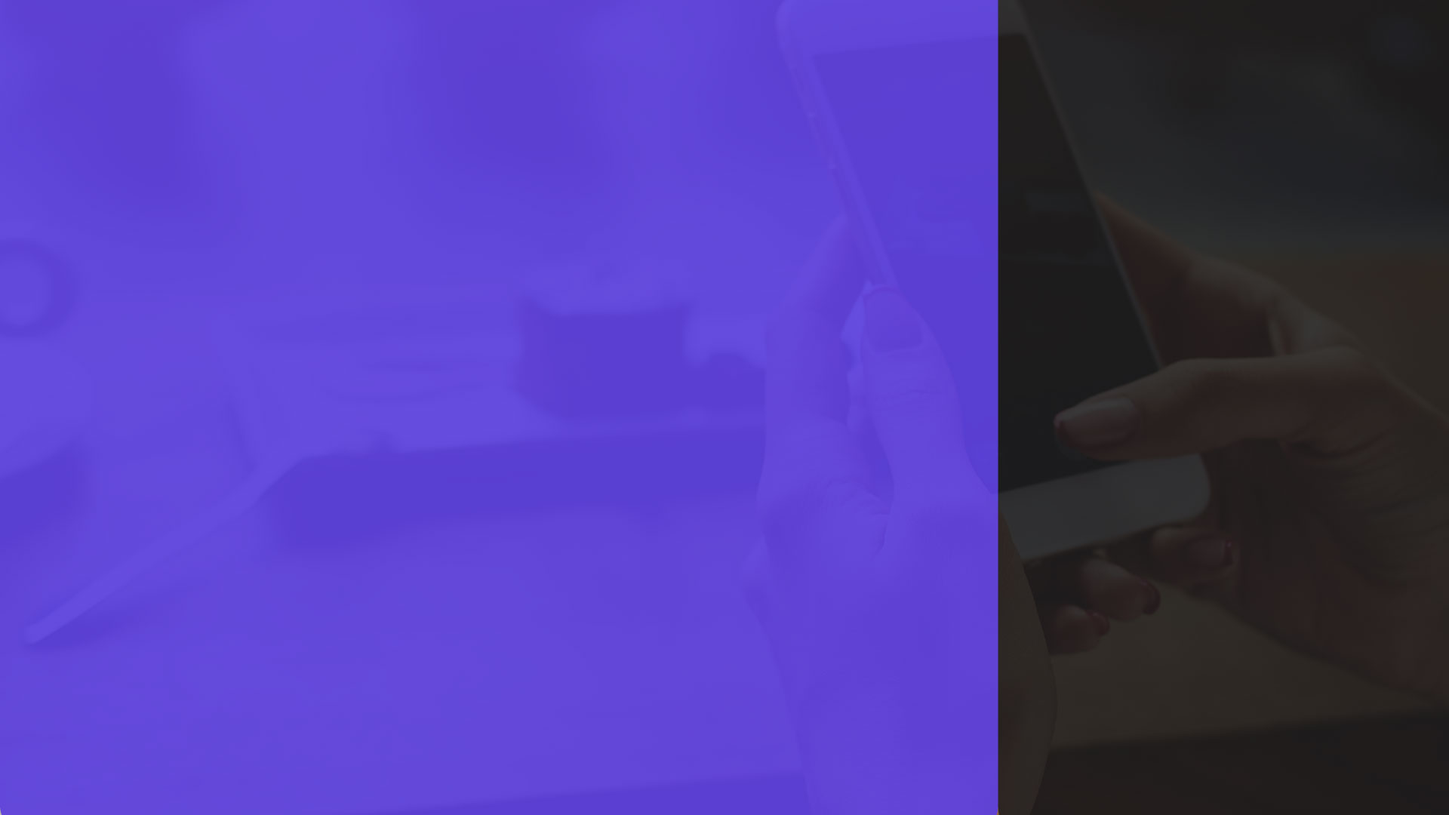
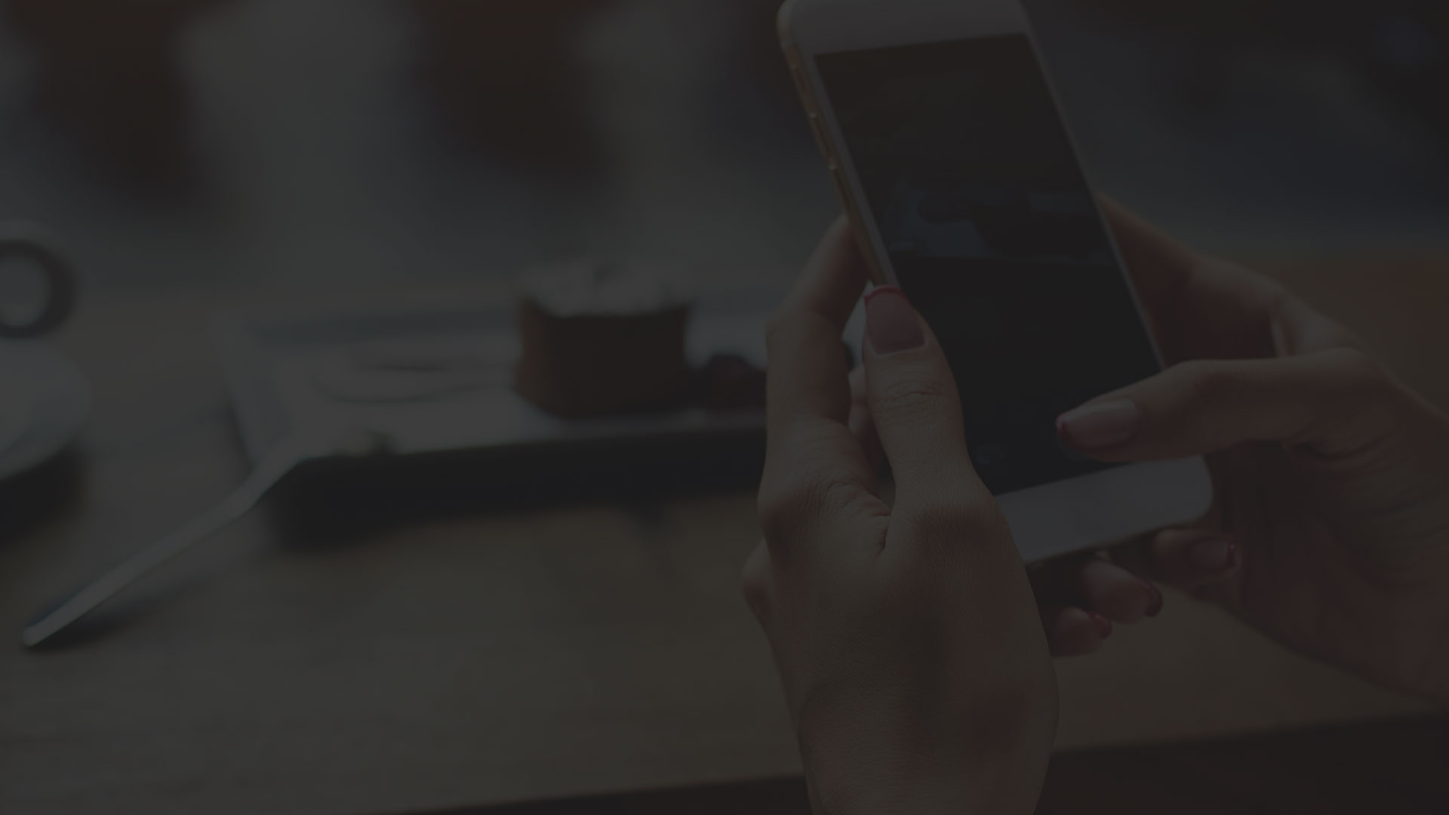
ajustes tomas

diff --git a/assets/css/main.min.css b/assets/css/main.min.css
@@ -1,2 +1,2 @@
-@import url("https://fonts.googleapis.com/css2?family=Montserrat:wght@400;600;700&family=Nunito:wght@300;400;500;600;700;800;900&display=swap");html,body,div,span,applet,object,iframe,h1,h2,h3,h4,h5,h6,p,blockquote,pre,a,abbr,acronym,address,big,cite,code,del,dfn,em,img,ins,kbd,q,s,samp,small,strike,strong,sub,sup,tt,var,b,u,i,center,dl,dt,dd,ol,ul,li,fieldset,form,label,legend,table,caption,tbody,tfoot,thead,tr,th,td,article,aside,canvas,details,embed,figure,figcaption,footer,header,hgroup,menu,nav,output,ruby,section,summary,time,mark,audio,video{margin:0;padding:0;border:0;font-size:100%;font:inherit;vertical-align:baseline}.jumbotron{padding:0}article,aside,details,figcaption,figure,footer,header,hgroup,menu,nav,section{display:block}body{line-height:1}ol,ul{list-style:none}blockquote,q{quotes:none}blockquote:before,blockquote:after{content:'';content:none}q:before,q:after{content:'';content:none}table{border-collapse:collapse;border-spacing:0}button.focus,button:focus,.btn.focus,.btn:focus{outline:0;-webkit-box-shadow:none;box-shadow:none}.form-control{border-radius:0}.form-control:focus{-webkit-box-shadow:none;box-shadow:none}textarea{resize:none}.modal .modal-content{border-radius:0;border:0}a{color:inherit}a:hover{text-decoration:none}html{scroll-behavior:smooth}@media (max-width: 575.98px){html{font-size:14px}}body{background-color:#5d41dd}.check{opacity:0}h2{font-family:"Nunito",sans-serif;font-weight:300;font-size:42px;font-size:2.625rem;color:white;line-height:48px;line-height:3rem}h3{font-family:"Nunito",sans-serif;font-weight:900;font-size:30px;font-size:1.875rem}h4{font-family:"Nunito",sans-serif;font-weight:600;font-size:25px;font-size:1.5625rem;line-height:30px;line-height:1.875rem}h5{font-family:"Nunito",sans-serif;font-weight:700;font-size:18px;font-size:1.125rem;line-height:22px;line-height:1.375rem}b{font-weight:700}@media (min-width: 1400px){.container{min-width:1400px}}.btn-round{background-color:#5d41dd;color:white;font-size:25px;font-size:1.5625rem;display:inline-block;font-family:"Nunito",sans-serif;font-weight:700;padding:15px 30px;padding:.9375rem 1.875rem;border-radius:50px;text-align:center;position:relative;overflow:hidden}.btn-round span{position:relative;z-index:1}.btn-round::after{content:'';background-color:#23D3DE;position:absolute;left:0;right:0;bottom:0;top:0;height:0;-webkit-transition:height .2s linear;transition:height .2s linear}.btn-round:hover{color:white}.btn-round:hover::after{height:100%}.combo{display:-webkit-box;display:-ms-flexbox;display:flex;-webkit-box-align:center;-ms-flex-align:center;align-items:center;margin-bottom:5px;margin-bottom:.3125rem}.combo img{margin-right:10px;margin-right:.625rem}.navbar{background-color:rgba(0,0,0,0.5);border-bottom:1px solid white;padding-top:30px;padding-top:1.875rem;padding-bottom:30px;padding-bottom:1.875rem;-webkit-transition:all .2s linear;transition:all .2s linear}@media (max-width: 991.98px){.navbar{padding-left:0;padding-right:0;background-color:transparent;border-bottom:0}.navbar.opened{background-color:rgba(93,65,221,0.95)}.navbar .container{max-width:100%}}@media (max-width: 767.98px){.navbar{background-color:transparent;border-bottom:0;padding-top:20px;padding-top:1.25rem;padding-bottom:20px;padding-bottom:1.25rem}}.navbar.scrolled{background-color:rgba(0,0,0,0.9);padding-top:20px;padding-top:1.25rem;padding-bottom:20px;padding-bottom:1.25rem}@media (max-width: 991.98px){.navbar.scrolled{background-color:rgba(93,65,221,0.95);padding-top:15px;padding-top:.9375rem;padding-bottom:15px;padding-bottom:.9375rem}}.navbar .navbar-brand{display:-webkit-box;display:-ms-flexbox;display:flex;-webkit-box-align:center;-ms-flex-align:center;align-items:center}.navbar .navbar-brand img{width:150px;margin-right:30px}@media (max-width: 767.98px){.navbar .navbar-brand img{width:120px}}.navbar .navbar-brand p{font-family:"Nunito",sans-serif;color:white;font-size:12px;font-size:.75rem;font-style:italic;font-weight:500}@media (max-width: 991.98px){.navbar .navbar-brand{padding-left:30px;padding-left:1.875rem}}.navbar .navbar-toggler{padding-right:30px;padding-right:1.875rem}.navbar .nav-item{margin:0px 7px;margin:0rem .4375rem}@media (max-width: 1400px){.navbar .nav-item{margin:15px 0px;margin:.9375rem 0rem}}.navbar .nav-item.active .nav-link{color:#23D3DE;font-weight:700}.navbar .nav-item.nav-item__contacto{border-radius:50px;background-color:#23D3DE;padding:2px 10px;padding:.125rem .625rem;position:relative;overflow:hidden}@media (max-width: 991.98px){.navbar .nav-item.nav-item__contacto{margin-top:auto;margin-bottom:12vh}}.navbar .nav-item.nav-item__contacto::after{content:'';background-color:white;position:absolute;left:0;right:0;bottom:0;top:0;height:0;-webkit-transition:height .2s linear;transition:height .2s linear}.navbar .nav-item.nav-item__contacto:hover{color:white}.navbar .nav-item.nav-item__contacto:hover::after{height:100%}.navbar .nav-item.nav-item__contacto .nav-link{color:black;font-weight:700;position:relative;z-index:2}@media (max-width: 991.98px){.navbar .nav-item.nav-item__contacto .nav-link{text-align:center;color:#5d41dd;padding-top:20px;padding-top:1.25rem;padding-bottom:20px;padding-bottom:1.25rem}}.navbar .nav-item.flags{margin-left:20px;margin-left:1.25rem}.navbar .nav-item.flags img{margin-right:10px}@media (max-width: 1400px){.navbar .nav-item.flags img{margin-right:5px}}.navbar .nav-item.flags img:last-child{margin:0}.navbar .nav-link{font-family:"Montserrat",sans-serif;color:white;font-size:14px;font-size:.875rem}.navbar .nav-link:hover{color:#23D3DE}@media (max-width: 991.98px){.navbar .nav-link{font-size:20px;font-size:1.25rem}}@media (max-width: 991.98px){.navbar .navbar-nav{padding:112px 50px 0px 50px;padding:7rem 3.125rem 0rem 3.125rem;height:95vh;-webkit-box-pack:center;-ms-flex-pack:center;justify-content:center}}header{height:100vh;background-color:black;display:-webkit-box;display:-ms-flexbox;display:flex;-webkit-box-align:center;-ms-flex-align:center;align-items:center;-webkit-box-pack:center;-ms-flex-pack:center;justify-content:center}header h1{font-family:"Nunito",sans-serif;font-weight:900;font-size:45px;font-size:2.8125rem;color:white}@media (max-width: 767.98px){header h1{margin-top:45px;margin-top:2.8125rem;font-size:35px;font-size:2.1875rem;font-weight:800}header h1 br{display:none}}header p{margin-top:25px;margin-top:1.5625rem;font-size:21px;font-size:1.3125rem;color:white;font-family:"Nunito",sans-serif;font-weight:700;margin-bottom:60px;margin-bottom:3.75rem}@media (max-width: 767.98px){header p{font-weight:600;margin-top:45px;margin-top:2.8125rem;margin-bottom:80px;margin-bottom:5rem}}header .container{position:relative;z-index:2}.wsp{z-index:20;position:fixed;right:50px;bottom:20px}@media (max-width: 767.98px){.wsp{display:none}}.flex-slider{width:100%;position:absolute}.flex-slider .slides{list-style:none;overflow:hidden;margin:0;padding:0}.flex-slider .slides>li{float:left;margin-right:-100%;width:100%;overflow:hidden;height:100vh}.flex-slider .flex-direction-nav{display:none}.flex-slider .slide-image{background-size:cover;background-position:center;position:absolute;width:100%;height:100%;left:0;top:0}.flex-slider .flex-active-slide .slide-image{-webkit-animation:zoomout 5s;animation:zoomout 5s}@-webkit-keyframes zoomout{0%{-webkit-transform:scale(1.3);transform:scale(1.3)}100%{-webkit-transform:scale(1);transform:scale(1)}}@keyframes zoomout{0%{-webkit-transform:scale(1.3);transform:scale(1.3)}100%{-webkit-transform:scale(1);transform:scale(1)}}@media (max-width: 768px){.flex-slider .flex-slider .slides>li{height:70vw}}.modulo1{padding-bottom:80px;padding-bottom:5rem;background-image:url(../images/modulo1.jpg);min-height:100vh;background-size:cover;background-attachment:fixed}@media (max-width: 991.98px){.modulo1{overflow-x:hidden;background-image:url(../images/modulo1-mobile.jpg);background-position:center}.modulo1 br{display:none}.modulo1 .modulo1-cards_wrapper{width:100%;min-width:100%;padding:0}}.modulo1 .modulo1-cards{margin-top:-90px;margin-top:-5.625rem;position:relative;z-index:10;margin-bottom:70px;margin-bottom:4.375rem}@media (max-width: 991.98px){.modulo1 .modulo1-cards{margin-top:0}}.modulo1 .modulo1-cards .cards{border-radius:15px;padding:35px 25px;padding:2.1875rem 1.5625rem;height:100%}@media (max-width: 991.98px){.modulo1 .modulo1-cards .cards{border-radius:0;padding:60px 25px;padding:3.75rem 1.5625rem}}.modulo1 .modulo1-cards .cards .title{display:-webkit-box;display:-ms-flexbox;display:flex;-webkit-box-align:center;-ms-flex-align:center;align-items:center;-webkit-box-pack:center;-ms-flex-pack:center;justify-content:center;margin-bottom:40px;margin-bottom:2.5rem}@media (max-width: 991.98px){.modulo1 .modulo1-cards .cards .title{margin-bottom:30px;margin-bottom:1.875rem}}.modulo1 .modulo1-cards .cards .title img{width:30px;margin-right:15px;margin-right:.9375rem}.modulo1 .modulo1-cards .cards .title p{font-family:"Montserrat",sans-serif;font-weight:700;font-size:20px;font-size:1.25rem}.modulo1 .modulo1-cards .cards p{line-height:24px;line-height:1.5rem;font-size:18px;font-size:1.125rem;font-family:"Nunito",sans-serif;font-weight:300;text-align:center}.modulo1 .modulo1-cards .cards-1,.modulo1 .modulo1-cards .cards-3{background-color:#5d41dd;color:white}.modulo1 .modulo1-cards .cards-2{background-color:#23D3DE;color:black}.modulo1 .modulo1-header p{color:white;font-family:"Nunito",sans-serif;font-weight:600;font-size:20px;font-size:1.25rem;margin-top:30px;margin-top:1.875rem}.modulo1 .modulo1-logo{margin-top:50px;margin-top:3.125rem;position:relative;height:340px}@media (max-width: 991.98px){.modulo1 .modulo1-logo{height:auto}}.modulo1 .modulo1-logo .logo{position:absolute;z-index:1}.modulo1 .modulo1-logo .logo::after{content:'';position:absolute;left:0;right:0;bottom:0;top:0;margin:auto;border:1px solid #23D3DE;border-radius:50%;z-index:-1;opacity:0.5}@media (max-width: 991.98px){.modulo1 .modulo1-logo .logo{text-align:center;position:relative;width:50%;top:initial !important;left:initial !important;right:initial !important;bottom:initial !important;float:left;margin-bottom:20px;margin-bottom:1.25rem}.modulo1 .modulo1-logo .logo::after{display:none}.modulo1 .modulo1-logo .logo img{width:60% !important}}.modulo1 .modulo1-logo .woo{right:13%;top:10%}.modulo1 .modulo1-logo .woo img{width:100px}.modulo1 .modulo1-logo .woo::after{width:40px;height:40px}.modulo1 .modulo1-logo .ml{right:30%;top:30%}.modulo1 .modulo1-logo .ml img{width:230px}.modulo1 .modulo1-logo .ml::after{width:120px;height:120px}.modulo1 .modulo1-logo .open{right:8%;top:45%}.modulo1 .modulo1-logo .open img{width:120px}.modulo1 .modulo1-logo .open::after{width:55px;height:55px}.modulo1 .modulo1-logo .magneto{right:0%;bottom:0%}.modulo1 .modulo1-logo .magneto img{width:100px}.modulo1 .modulo1-logo .magneto::after{width:50px;height:50px}.modulo1 .modulo1-logo .google{right:25%;bottom:15%}.modulo1 .modulo1-logo .google img{width:60px}.modulo1 .modulo1-logo .google::after{width:50px;height:50px}.modulo1 .modulo1-logo .shopify{left:5%;top:45%}.modulo1 .modulo1-logo .shopify img{width:145px}.modulo1 .modulo1-logo .shopify::after{width:55px;height:55px}.modulo1 .modulo1-logo .tiendanube{left:25%;bottom:20%}.modulo1 .modulo1-logo .tiendanube img{width:180px}.modulo1 .modulo1-logo .tiendanube::after{width:55px;height:55px}.modulo1 .modulo1-logo .amazon{left:20%;top:15%}.modulo1 .modulo1-logo .amazon img{width:115px}.modulo1 .modulo1-logo .amazon::after{width:80px;height:80px}.modulo1 .modulo1-logo .dafiti{left:50%;bottom:0}.modulo1 .modulo1-logo .dafiti img{width:85px}.modulo1 .modulo1-logo .dafiti::after{width:50px;height:50px}.modulo2{padding-top:90px;padding-top:5.625rem;padding-bottom:90px;padding-bottom:5.625rem;background-image:url(../images/modulo2.jpg);min-height:100vh;background-size:cover}.modulo2 h2{margin-bottom:50px;margin-bottom:3.125rem}.modulo2 .btn-round{margin-top:60px;margin-top:3.75rem;font-size:18px;font-size:1.125rem}.modulo3{padding-bottom:255px;position:relative;overflow:hidden;background-color:white}@media (max-width: 991.98px){.modulo3{padding-bottom:0}}.modulo3 .modulo-3_text{height:100vh;background-image:url(../images/modulo3.jpg);background-attachment:fixed;min-height:100vh;background-size:cover;display:-webkit-box;display:-ms-flexbox;display:flex;-webkit-box-align:center;-ms-flex-align:center;align-items:center}.modulo3 .modulo-3_text .iso{width:80px;margin-bottom:20px;margin-bottom:1.25rem}.modulo3 p{font-family:"Nunito",sans-serif;color:white;font-size:50px;font-size:3.125rem}@media (max-width: 991.98px){.modulo3 p{text-align:center}}.modulo3 p.title{font-weight:900}.modulo3 p.subtitle{font-weight:600}@media (max-width: 767.98px){.modulo3 p.subtitle{margin-top:60px;margin-top:3.75rem;font-size:30px;font-size:1.875rem}}@media (max-width: 991.98px){.modulo3 svg{display:none}}.modulo3 #modulo3-iso{position:absolute;right:-80px;bottom:-275px;width:1300px;opacity:1}@-webkit-keyframes animatesvg{to{stroke-dashoffset:0}}@keyframes animatesvg{to{stroke-dashoffset:0}}.modulo3 #modulo3-iso polyline{stroke-dasharray:2200;stroke-dashoffset:2200}.modulo3 #modulo3-iso.animate__animated polyline{-webkit-animation:animatesvg 1s linear forwards;animation:animatesvg 1s linear forwards;-webkit-animation-delay:0.5s;animation-delay:0.5s}.modulo3 .bola1{margin-bottom:50px;margin-bottom:3.125rem;width:50px}.modulo3 .bola2{margin-top:50px;margin-top:3.125rem;width:25px}.modulo4{background-color:#FAFAFA;padding-top:90px;padding-top:5.625rem;padding-bottom:90px;padding-bottom:5.625rem}@media (max-width: 992px){.modulo4{background-color:#5d41dd;padding:0}.modulo4 .col-12{min-height:100vh;display:-webkit-box;display:-ms-flexbox;display:flex;-webkit-box-orient:vertical;-webkit-box-direction:normal;-ms-flex-direction:column;flex-direction:column;-ms-flex-pack:distribute;justify-content:space-around;padding-top:40px;padding-top:2.5rem;padding-bottom:40px;padding-bottom:2.5rem}}.modulo4 h3{margin-bottom:20px;margin-bottom:1.25rem}@media (max-width: 992px){.modulo4 h3{text-align:center;color:white;font-size:40px;font-size:2.5rem}.modulo4 h3+img{margin-top:50px;margin-top:3.125rem}}.modulo4 h5{color:#5d41dd;position:relative;margin-bottom:20px;margin-bottom:1.25rem}@media (max-width: 992px){.modulo4 h5{color:#23D3DE;text-align:center;font-size:30px;font-size:1.875rem;line-height:32px;line-height:2rem;margin-bottom:35px;margin-bottom:2.1875rem}.modulo4 h5 br{display:none}}.modulo4 .subtitle{color:#5E626C}.modulo4 .btn-round{margin-top:10px;margin-top:.625rem;margin-bottom:30px;margin-bottom:1.875rem;font-size:20px;font-size:1.25rem}@media (max-width: 992px){.modulo4 .btn-round{background-color:#23D3DE;color:#5d41dd}}.modulo4 .destaque{color:#5d41dd;font-family:"Nunito",sans-serif;font-weight:700;font-size:33px;font-size:2.0625rem;line-height:34px;line-height:2.125rem}.modulo4 .tablero h5::before{content:'';background:url("../images/icon-tablero.svg");background-size:contain;width:50px;height:44px;position:absolute;left:0;top:-60px}@media (max-width: 992px){.modulo4 .tablero h5::before{background:url("../images/mod-4-m1.svg");background-size:cover;right:0;margin:auto}}.modulo4 .transacciones h5::before{content:'';background:url("../images/icon-facturacion.svg");background-size:contain;width:50px;height:44px;position:absolute;left:0;top:-60px}@media (max-width: 992px){.modulo4 .transacciones h5::before{background:url("../images/mod-4-m2.svg");background-size:cover;right:0;margin:auto}}.modulo4 ul li{font-size:16px;font-size:1rem;line-height:21px;line-height:1.3125rem;font-family:"Nunito",sans-serif;font-weight:700;margin-bottom:5px;margin-bottom:.3125rem;padding-left:5px;padding-left:.3125rem;position:relative}.modulo4 ul li:before{content:'·';position:absolute;left:-3px}@media (max-width: 992px){.modulo4 ul li{font-size:23px;font-size:1.4375rem;line-height:29px;line-height:1.8125rem;margin-bottom:15px;margin-bottom:.9375rem;color:white;text-align:center}.modulo4 ul li:before{content:'·';position:relative;left:-3px}}.modulo5{padding-top:90px;padding-top:5.625rem;padding-bottom:90px;padding-bottom:5.625rem;background-image:url(../images/modulo5.jpg);background-attachment:fixed;min-height:100vh;background-size:cover;display:-webkit-box;display:-ms-flexbox;display:flex;-webkit-box-align:center;-ms-flex-align:center;align-items:center}@media (max-width: 992px){.modulo5{background-image:url(../images/modulo5-m.jpg)}}.modulo5 h2{margin-top:40px;margin-top:2.5rem;margin-bottom:50px;margin-bottom:3.125rem}@media (max-width: 992px){.modulo5 h2{text-align:center;font-size:30px;font-size:1.875rem;line-height:34px;line-height:2.125rem}.modulo5 h2 br{display:none}}.modulo5 h5{font-weight:600;color:white}@media (max-width: 992px){.modulo5 h5{text-align:center}}.modulo6{padding-top:90px;padding-top:5.625rem;padding-bottom:90px;padding-bottom:5.625rem;background-image:url(../images/modulo6.jpg);background-attachment:fixed;min-height:100vh;background-size:cover;display:-webkit-box;display:-ms-flexbox;display:flex;-webkit-box-align:center;-ms-flex-align:center;align-items:center}.modulo6 h4{color:white;margin-top:70px;margin-top:4.375rem}.modulo6 h4 b{font-weight:900}.modulo6 .logoslider{margin-top:90px;margin-top:5.625rem;display:-webkit-box;display:-ms-flexbox;display:flex;-webkit-box-pack:justify;-ms-flex-pack:justify;justify-content:space-between;-webkit-box-align:center;-ms-flex-align:center;align-items:center}.modulo6 .logoslider img{height:30px}.modulo6 .btn-round{margin-top:10px;margin-top:.625rem;margin-bottom:30px;margin-bottom:1.875rem;font-size:20px;font-size:1.25rem}@media (max-width: 992px){.modulo6 .btn-round{background-color:#23D3DE;color:#5d41dd;margin-top:80px;margin-top:5rem}}.contacto{padding-top:90px;padding-top:5.625rem;padding-bottom:90px;padding-bottom:5.625rem;background-image:url(../images/contacto.jpg);min-height:100vh;background-size:cover;display:-webkit-box;display:-ms-flexbox;display:flex;-webkit-box-align:center;-ms-flex-align:center;align-items:center}@media (max-width: 1199.98px){.contacto{background-image:url(../images/contacto-md.jpg)}}@media (max-width: 575.98px){.contacto{background-image:url(../images/contacto-m.jpg);background-size:contain;background-color:#5d41dd;background-repeat:no-repeat;background-position:top;padding-bottom:0}}@media (max-width: 991.98px){.contacto .contacto-form{padding-bottom:100px;padding-bottom:6.25rem;text-align:center}}.contacto .contacto-form h2+p{font-family:"Nunito",sans-serif;font-size:23px;font-size:1.4375rem;color:white;margin-top:10px;margin-top:.625rem;margin-bottom:40px;margin-bottom:2.5rem}.contacto .contacto-form form{margin-top:30px;margin-top:1.875rem}.contacto .contacto-form form .form-control{opacity:0.7;font-family:"Nunito",sans-serif;color:#5E626C;font-weight:700}@media (max-width: 991.98px){.contacto .contacto-form form .form-control{text-align:center}}.contacto .contacto-form form .form-control:focus,.contacto .contacto-form form .form-control:valid{opacity:1}.contacto .contacto-form form .form-control::-webkit-input-placeholder{font-family:"Nunito",sans-serif;color:#5E626C;font-weight:700}.contacto .contacto-form form .form-control:-ms-input-placeholder{font-family:"Nunito",sans-serif;color:#5E626C;font-weight:700}.contacto .contacto-form form .form-control::-ms-input-placeholder{font-family:"Nunito",sans-serif;color:#5E626C;font-weight:700}.contacto .contacto-form form .form-control::placeholder{font-family:"Nunito",sans-serif;color:#5E626C;font-weight:700}.contacto .contacto-form form input{height:50px}.contacto .contacto-form form textarea{height:120px}.contacto .contacto-form form .error{font-family:"Montserrat",sans-serif;font-size:12px;font-size:.75rem;font-weight:700;color:#ff8f8f;letter-spacing:1px}.contacto .contacto-form form .msjExito{margin-top:30px;margin-top:1.875rem;font-size:14px;font-size:.875rem;font-family:"Montserrat",sans-serif;font-weight:700;color:#23D3DE}.contacto .contacto-form .btn-round{text-transform:uppercase;font-size:16px;font-size:1rem;letter-spacing:1px;border:0;outline:3px solid #23D3DE;padding:10px 25px;padding:.625rem 1.5625rem}@media (max-width: 991.98px){.contacto .contacto-form .btn-round{padding:12px 28px;padding:.75rem 1.75rem;margin-top:40px;margin-top:2.5rem}}.contacto .contacto-address .logo{width:180px;margin-bottom:10px;margin-bottom:.625rem}@media (max-width: 991.98px){.contacto .contacto-address .logo{display:none}}.contacto .contacto-address h5{color:white;text-transform:uppercase;margin-top:40px;margin-top:2.5rem;margin-bottom:20px;margin-bottom:1.25rem}.contacto .contacto-address h5.combo{margin-bottom:20px;margin-bottom:1.25rem}.contacto .contacto-address p{color:white;font-family:"Nunito",sans-serif}.contacto .contacto-address a{color:white;font-family:"Nunito",sans-serif;display:block;margin-bottom:10px;margin-bottom:.625rem}.contacto .contacto-address .seguridad p{font-size:14px;font-size:.875rem;line-height:19px;line-height:1.1875rem}@media (max-width: 991.98px){.contacto .contacto-address .phone{margin-top:70px;margin-top:4.375rem}}footer{background-color:#1C1C1C;padding-top:70px;padding-top:4.375rem;padding-bottom:70px;padding-bottom:4.375rem}@media (max-width: 991.98px){footer{background-color:#5d41dd}}footer .title{text-transform:uppercase;font-size:16px;font-size:1rem;color:white;font-family:"Nunito",sans-serif;font-weight:700;margin-bottom:20px;margin-bottom:1.25rem}footer li{margin-bottom:15px;margin-bottom:.9375rem}footer a{font-size:16px;font-size:1rem;color:white;font-family:"Nunito",sans-serif;font-weight:300}footer a:hover{color:#23D3DE}footer .combo img{width:20px}.footer-copy{background-color:#414141;padding-top:15px;padding-top:.9375rem;padding-bottom:15px;padding-bottom:.9375rem}.footer-copy p{color:white;font-family:"Montserrat",sans-serif;font-size:12px;font-size:.75rem}
+@import url("https://fonts.googleapis.com/css2?family=Montserrat:wght@400;600;700&family=Nunito:wght@300;400;500;600;700;800;900&display=swap");html,body,div,span,applet,object,iframe,h1,h2,h3,h4,h5,h6,p,blockquote,pre,a,abbr,acronym,address,big,cite,code,del,dfn,em,img,ins,kbd,q,s,samp,small,strike,strong,sub,sup,tt,var,b,u,i,center,dl,dt,dd,ol,ul,li,fieldset,form,label,legend,table,caption,tbody,tfoot,thead,tr,th,td,article,aside,canvas,details,embed,figure,figcaption,footer,header,hgroup,menu,nav,output,ruby,section,summary,time,mark,audio,video{margin:0;padding:0;border:0;font-size:100%;font:inherit;vertical-align:baseline}.jumbotron{padding:0}article,aside,details,figcaption,figure,footer,header,hgroup,menu,nav,section{display:block}body{line-height:1}ol,ul{list-style:none}blockquote,q{quotes:none}blockquote:before,blockquote:after{content:'';content:none}q:before,q:after{content:'';content:none}table{border-collapse:collapse;border-spacing:0}button.focus,button:focus,.btn.focus,.btn:focus{outline:0;-webkit-box-shadow:none;box-shadow:none}.form-control{border-radius:0}.form-control:focus{-webkit-box-shadow:none;box-shadow:none}textarea{resize:none}.modal .modal-content{border-radius:0;border:0}a{color:inherit}a:hover{text-decoration:none}html{scroll-behavior:smooth}@media (max-width: 575.98px){html{font-size:14px}}body{background-color:#5d41dd}.check{opacity:0}h2{font-family:"Nunito",sans-serif;font-weight:300;font-size:42px;font-size:2.625rem;color:white;line-height:48px;line-height:3rem}h3{font-family:"Nunito",sans-serif;font-weight:900;font-size:30px;font-size:1.875rem}h4{font-family:"Nunito",sans-serif;font-weight:600;font-size:25px;font-size:1.5625rem;line-height:30px;line-height:1.875rem}h5{font-family:"Nunito",sans-serif;font-weight:700;font-size:18px;font-size:1.125rem;line-height:22px;line-height:1.375rem}b{font-weight:700}@media (min-width: 1400px){.container{min-width:1400px}}.btn-round{background-color:#5d41dd;color:white;font-size:25px;font-size:1.5625rem;display:inline-block;font-family:"Nunito",sans-serif;font-weight:700;padding:15px 30px;padding:.9375rem 1.875rem;border-radius:50px;text-align:center;position:relative;overflow:hidden}.btn-round span{position:relative;z-index:1}.btn-round::after{content:'';background-color:#23D3DE;position:absolute;left:0;right:0;bottom:0;top:0;height:0;-webkit-transition:height .2s linear;transition:height .2s linear}.btn-round:hover{color:white}.btn-round:hover::after{height:100%}.combo{display:-webkit-box;display:-ms-flexbox;display:flex;-webkit-box-align:center;-ms-flex-align:center;align-items:center;margin-bottom:5px;margin-bottom:.3125rem}.combo img{margin-right:10px;margin-right:.625rem}.navbar{background-color:rgba(0,0,0,0.5);border-bottom:1px solid rgba(255,255,255,0.2);padding-top:30px;padding-top:1.875rem;padding-bottom:30px;padding-bottom:1.875rem;-webkit-transition:all .2s linear;transition:all .2s linear}@media (max-width: 991.98px){.navbar{padding-left:0;padding-right:0;background-color:transparent;border-bottom:0}.navbar.opened{background-color:rgba(93,65,221,0.95)}.navbar .container{max-width:100%}}@media (max-width: 767.98px){.navbar{background-color:transparent;border-bottom:0;padding-top:20px;padding-top:1.25rem;padding-bottom:20px;padding-bottom:1.25rem}}.navbar.scrolled{background-color:rgba(0,0,0,0.9);padding-top:20px;padding-top:1.25rem;padding-bottom:20px;padding-bottom:1.25rem}@media (max-width: 991.98px){.navbar.scrolled{background-color:rgba(93,65,221,0.95);padding-top:15px;padding-top:.9375rem;padding-bottom:15px;padding-bottom:.9375rem}}.navbar .navbar-brand{display:-webkit-box;display:-ms-flexbox;display:flex;-webkit-box-align:center;-ms-flex-align:center;align-items:center}.navbar .navbar-brand img{width:150px;margin-right:30px}@media (max-width: 767.98px){.navbar .navbar-brand img{width:120px}}.navbar .navbar-brand p{font-family:"Nunito",sans-serif;color:white;font-size:12px;font-size:.75rem;font-style:italic;font-weight:500}@media (max-width: 991.98px){.navbar .navbar-brand{padding-left:30px;padding-left:1.875rem}}.navbar .navbar-toggler{padding-right:30px;padding-right:1.875rem}.navbar .nav-item{margin:0px 7px;margin:0rem .4375rem}@media (max-width: 1400px){.navbar .nav-item{margin:15px 0px;margin:.9375rem 0rem}}.navbar .nav-item.active .nav-link{color:#23D3DE;font-weight:700}.navbar .nav-item.nav-item__contacto{border-radius:50px;background-color:#23D3DE;padding:2px 10px;padding:.125rem .625rem;position:relative;overflow:hidden}@media (max-width: 991.98px){.navbar .nav-item.nav-item__contacto{margin-top:auto;margin-bottom:12vh}}.navbar .nav-item.nav-item__contacto::after{content:'';background-color:white;position:absolute;left:0;right:0;bottom:0;top:0;height:0;-webkit-transition:height .2s linear;transition:height .2s linear}.navbar .nav-item.nav-item__contacto:hover{color:white}.navbar .nav-item.nav-item__contacto:hover::after{height:100%}.navbar .nav-item.nav-item__contacto .nav-link{color:black;font-weight:700;position:relative;z-index:2}@media (max-width: 991.98px){.navbar .nav-item.nav-item__contacto .nav-link{text-align:center;color:#5d41dd;padding-top:20px;padding-top:1.25rem;padding-bottom:20px;padding-bottom:1.25rem}}.navbar .nav-item.flags{margin-left:20px;margin-left:1.25rem}.navbar .nav-item.flags img{margin-right:10px}@media (max-width: 1400px){.navbar .nav-item.flags img{margin-right:5px}}.navbar .nav-item.flags img:last-child{margin:0}.navbar .nav-link{font-family:"Montserrat",sans-serif;color:white;font-size:14px;font-size:.875rem}.navbar .nav-link:hover{color:#23D3DE}@media (max-width: 991.98px){.navbar .nav-link{font-size:20px;font-size:1.25rem}}@media (max-width: 991.98px){.navbar .navbar-nav{padding:112px 50px 0px 50px;padding:7rem 3.125rem 0rem 3.125rem;height:95vh;-webkit-box-pack:center;-ms-flex-pack:center;justify-content:center}}header{height:100vh;background-color:black;display:-webkit-box;display:-ms-flexbox;display:flex;-webkit-box-align:center;-ms-flex-align:center;align-items:center;-webkit-box-pack:center;-ms-flex-pack:center;justify-content:center}header h1{font-family:"Nunito",sans-serif;font-weight:900;font-size:45px;font-size:2.8125rem;color:white}@media (max-width: 767.98px){header h1{margin-top:45px;margin-top:2.8125rem;font-size:35px;font-size:2.1875rem;font-weight:800}header h1 br{display:none}}header p{margin-top:25px;margin-top:1.5625rem;font-size:21px;font-size:1.3125rem;color:white;font-family:"Nunito",sans-serif;font-weight:700;margin-bottom:60px;margin-bottom:3.75rem}@media (max-width: 767.98px){header p{font-weight:600;margin-top:45px;margin-top:2.8125rem;margin-bottom:80px;margin-bottom:5rem}}header .container{position:relative;z-index:2}.wsp{z-index:20;position:fixed;right:50px;bottom:20px}@media (max-width: 767.98px){.wsp{display:none}}.flex-slider{width:100%;position:absolute}.flex-slider .slides{list-style:none;overflow:hidden;margin:0;padding:0}.flex-slider .slides>li{float:left;margin-right:-100%;width:100%;overflow:hidden;height:100vh}.flex-slider .flex-direction-nav{display:none}.flex-slider .slide-image{background-size:cover;background-position:center;position:absolute;width:100%;height:100%;left:0;top:0}.flex-slider .flex-active-slide .slide-image{-webkit-animation:zoomout 5s;animation:zoomout 5s}@-webkit-keyframes zoomout{0%{-webkit-transform:scale(1.3);transform:scale(1.3)}100%{-webkit-transform:scale(1);transform:scale(1)}}@keyframes zoomout{0%{-webkit-transform:scale(1.3);transform:scale(1.3)}100%{-webkit-transform:scale(1);transform:scale(1)}}@media (max-width: 768px){.flex-slider .flex-slider .slides>li{height:70vw}}.modulo1{padding-bottom:80px;padding-bottom:5rem;background-image:url(../images/modulo1.jpg);min-height:100vh;background-size:cover;background-attachment:fixed}@media (max-width: 991.98px){.modulo1{overflow-x:hidden;background-image:url(../images/modulo1-mobile.jpg);background-position:center}.modulo1 br{display:none}.modulo1 .modulo1-cards_wrapper{width:100%;min-width:100%;padding:0}}.modulo1 .modulo1-cards{margin-top:-90px;margin-top:-5.625rem;position:relative;z-index:10;margin-bottom:70px;margin-bottom:4.375rem}@media (max-width: 991.98px){.modulo1 .modulo1-cards{margin-top:0}}.modulo1 .modulo1-cards .cards{border-radius:15px;padding:35px 25px;padding:2.1875rem 1.5625rem;height:100%}@media (max-width: 991.98px){.modulo1 .modulo1-cards .cards{border-radius:0;padding:60px 25px;padding:3.75rem 1.5625rem}}.modulo1 .modulo1-cards .cards .title{display:-webkit-box;display:-ms-flexbox;display:flex;-webkit-box-align:center;-ms-flex-align:center;align-items:center;-webkit-box-pack:center;-ms-flex-pack:center;justify-content:center;margin-bottom:40px;margin-bottom:2.5rem}@media (max-width: 991.98px){.modulo1 .modulo1-cards .cards .title{margin-bottom:30px;margin-bottom:1.875rem}}.modulo1 .modulo1-cards .cards .title img{width:30px;margin-right:15px;margin-right:.9375rem}.modulo1 .modulo1-cards .cards .title p{font-family:"Montserrat",sans-serif;font-weight:700;font-size:20px;font-size:1.25rem}.modulo1 .modulo1-cards .cards p{line-height:24px;line-height:1.5rem;font-size:18px;font-size:1.125rem;font-family:"Nunito",sans-serif;font-weight:300;text-align:center}.modulo1 .modulo1-cards .cards-1,.modulo1 .modulo1-cards .cards-3{background-color:#5d41dd;color:white}.modulo1 .modulo1-cards .cards-2{background-color:#23D3DE;color:black}.modulo1 .modulo1-header p{color:white;font-family:"Nunito",sans-serif;font-weight:600;font-size:20px;font-size:1.25rem;margin-top:30px;margin-top:1.875rem}.modulo1 .modulo1-logo{margin-top:50px;margin-top:3.125rem;position:relative;height:340px}@media (max-width: 991.98px){.modulo1 .modulo1-logo{height:auto}}.modulo1 .modulo1-logo .logo{position:absolute;z-index:1}.modulo1 .modulo1-logo .logo::after{content:'';position:absolute;left:0;right:0;bottom:0;top:0;margin:auto;border:1px solid #23D3DE;border-radius:50%;z-index:-1;opacity:0.5}@media (max-width: 991.98px){.modulo1 .modulo1-logo .logo{text-align:center;position:relative;width:50%;top:initial !important;left:initial !important;right:initial !important;bottom:initial !important;float:left;margin-bottom:20px;margin-bottom:1.25rem}.modulo1 .modulo1-logo .logo::after{display:none}.modulo1 .modulo1-logo .logo img{width:60% !important}}.modulo1 .modulo1-logo .woo{right:13%;top:10%}.modulo1 .modulo1-logo .woo img{width:100px}.modulo1 .modulo1-logo .woo::after{width:40px;height:40px}.modulo1 .modulo1-logo .ml{right:30%;top:30%}.modulo1 .modulo1-logo .ml img{width:230px}.modulo1 .modulo1-logo .ml::after{width:120px;height:120px}.modulo1 .modulo1-logo .open{right:8%;top:45%}.modulo1 .modulo1-logo .open img{width:120px}.modulo1 .modulo1-logo .open::after{width:55px;height:55px}.modulo1 .modulo1-logo .magneto{right:0%;bottom:0%}.modulo1 .modulo1-logo .magneto img{width:100px}.modulo1 .modulo1-logo .magneto::after{width:50px;height:50px}.modulo1 .modulo1-logo .google{right:25%;bottom:15%}.modulo1 .modulo1-logo .google img{width:60px}.modulo1 .modulo1-logo .google::after{width:50px;height:50px}.modulo1 .modulo1-logo .shopify{left:5%;top:45%}.modulo1 .modulo1-logo .shopify img{width:145px}.modulo1 .modulo1-logo .shopify::after{width:55px;height:55px}.modulo1 .modulo1-logo .tiendanube{left:25%;bottom:20%}.modulo1 .modulo1-logo .tiendanube img{width:180px}.modulo1 .modulo1-logo .tiendanube::after{width:55px;height:55px}.modulo1 .modulo1-logo .amazon{left:20%;top:15%}.modulo1 .modulo1-logo .amazon img{width:115px}.modulo1 .modulo1-logo .amazon::after{width:80px;height:80px}.modulo1 .modulo1-logo .dafiti{left:50%;bottom:0}.modulo1 .modulo1-logo .dafiti img{width:85px}.modulo1 .modulo1-logo .dafiti::after{width:50px;height:50px}.modulo2{padding-top:90px;padding-top:5.625rem;padding-bottom:90px;padding-bottom:5.625rem;background-image:url(../images/modulo2.jpg);min-height:100vh;background-size:cover}.modulo2 h2{margin-bottom:50px;margin-bottom:3.125rem}.modulo2 .btn-round{margin-top:60px;margin-top:3.75rem;font-size:18px;font-size:1.125rem}.modulo3{padding-bottom:255px;position:relative;overflow:hidden;background-color:white}@media (max-width: 991.98px){.modulo3{padding-bottom:0}}.modulo3 .modulo-3_text{height:100vh;background-image:url(../images/modulo3.jpg);background-attachment:fixed;min-height:100vh;background-size:cover;display:-webkit-box;display:-ms-flexbox;display:flex;-webkit-box-align:center;-ms-flex-align:center;align-items:center}.modulo3 .modulo-3_text .iso{width:80px;margin-bottom:20px;margin-bottom:1.25rem}.modulo3 p{font-family:"Nunito",sans-serif;color:white;font-size:50px;font-size:3.125rem}@media (max-width: 991.98px){.modulo3 p{text-align:center}}.modulo3 p.title{font-weight:900}.modulo3 p.subtitle{font-weight:600}@media (max-width: 767.98px){.modulo3 p.subtitle{margin-top:60px;margin-top:3.75rem;font-size:30px;font-size:1.875rem}}@media (max-width: 991.98px){.modulo3 svg{display:none}}.modulo3 #modulo3-iso{position:absolute;right:-80px;bottom:-275px;width:1300px;opacity:1}@-webkit-keyframes animatesvg{to{stroke-dashoffset:0}}@keyframes animatesvg{to{stroke-dashoffset:0}}.modulo3 #modulo3-iso polyline{stroke-dasharray:2200;stroke-dashoffset:2200}.modulo3 #modulo3-iso.animate__animated polyline{-webkit-animation:animatesvg 1s linear forwards;animation:animatesvg 1s linear forwards;-webkit-animation-delay:0.5s;animation-delay:0.5s}.modulo3 .bola1{margin-bottom:50px;margin-bottom:3.125rem;width:50px}.modulo3 .bola2{margin-top:50px;margin-top:3.125rem;width:25px}.modulo4{background-color:#FAFAFA;padding-top:90px;padding-top:5.625rem;padding-bottom:90px;padding-bottom:5.625rem}@media (max-width: 992px){.modulo4{background-color:#5d41dd;padding:0}.modulo4 .col-12{min-height:100vh;display:-webkit-box;display:-ms-flexbox;display:flex;-webkit-box-orient:vertical;-webkit-box-direction:normal;-ms-flex-direction:column;flex-direction:column;-ms-flex-pack:distribute;justify-content:space-around;padding-top:40px;padding-top:2.5rem;padding-bottom:40px;padding-bottom:2.5rem}}.modulo4 h3{margin-bottom:20px;margin-bottom:1.25rem}@media (max-width: 992px){.modulo4 h3{text-align:center;color:white;font-size:40px;font-size:2.5rem}.modulo4 h3+img{margin-top:50px;margin-top:3.125rem}}.modulo4 h5{color:#5d41dd;position:relative;margin-bottom:20px;margin-bottom:1.25rem}@media (max-width: 992px){.modulo4 h5{color:#23D3DE;text-align:center;font-size:30px;font-size:1.875rem;line-height:32px;line-height:2rem;margin-bottom:35px;margin-bottom:2.1875rem}.modulo4 h5 br{display:none}}.modulo4 .subtitle{color:#5E626C}.modulo4 .btn-round{margin-top:10px;margin-top:.625rem;margin-bottom:30px;margin-bottom:1.875rem;font-size:20px;font-size:1.25rem}@media (max-width: 992px){.modulo4 .btn-round{background-color:#23D3DE;color:#5d41dd}}.modulo4 .destaque{color:#5d41dd;font-family:"Nunito",sans-serif;font-weight:700;font-size:33px;font-size:2.0625rem;line-height:34px;line-height:2.125rem}.modulo4 .tablero h5::before{content:'';background:url("../images/icon-tablero.svg");background-size:contain;width:50px;height:44px;position:absolute;left:0;top:-60px}@media (max-width: 992px){.modulo4 .tablero h5::before{background:url("../images/mod-4-m1.svg");background-size:cover;right:0;margin:auto}}.modulo4 .transacciones h5::before{content:'';background:url("../images/icon-facturacion.svg");background-size:contain;width:50px;height:44px;position:absolute;left:0;top:-60px}@media (max-width: 992px){.modulo4 .transacciones h5::before{background:url("../images/mod-4-m2.svg");background-size:cover;right:0;margin:auto}}.modulo4 ul li{font-size:16px;font-size:1rem;line-height:21px;line-height:1.3125rem;font-family:"Nunito",sans-serif;font-weight:700;margin-bottom:5px;margin-bottom:.3125rem;padding-left:5px;padding-left:.3125rem;position:relative}.modulo4 ul li:before{content:'·';position:absolute;left:-3px}@media (max-width: 992px){.modulo4 ul li{font-size:23px;font-size:1.4375rem;line-height:29px;line-height:1.8125rem;margin-bottom:15px;margin-bottom:.9375rem;color:white;text-align:center}.modulo4 ul li:before{content:'·';position:relative;left:-3px}}.modulo5{padding-top:90px;padding-top:5.625rem;padding-bottom:90px;padding-bottom:5.625rem;background-image:url(../images/modulo5.jpg);background-attachment:fixed;min-height:100vh;background-size:cover;display:-webkit-box;display:-ms-flexbox;display:flex;-webkit-box-align:center;-ms-flex-align:center;align-items:center}@media (max-width: 992px){.modulo5{background-image:url(../images/modulo5-m.jpg)}}.modulo5 h2{margin-top:40px;margin-top:2.5rem;margin-bottom:50px;margin-bottom:3.125rem}@media (max-width: 992px){.modulo5 h2{text-align:center;font-size:30px;font-size:1.875rem;line-height:34px;line-height:2.125rem}.modulo5 h2 br{display:none}}.modulo5 h5{font-weight:600;color:white}@media (max-width: 992px){.modulo5 h5{text-align:center}}.modulo6{padding-top:90px;padding-top:5.625rem;padding-bottom:90px;padding-bottom:5.625rem;background-image:url(../images/modulo6.jpg);background-attachment:fixed;min-height:100vh;background-size:cover;display:-webkit-box;display:-ms-flexbox;display:flex;-webkit-box-align:center;-ms-flex-align:center;align-items:center}.modulo6 h4{color:white;margin-top:70px;margin-top:4.375rem}.modulo6 h4 b{font-weight:900}.modulo6 .logoslider{margin-top:90px;margin-top:5.625rem;display:-webkit-box;display:-ms-flexbox;display:flex;-webkit-box-pack:justify;-ms-flex-pack:justify;justify-content:space-between;-webkit-box-align:center;-ms-flex-align:center;align-items:center}.modulo6 .logoslider img{height:30px}.modulo6 .btn-round{margin-top:10px;margin-top:.625rem;margin-bottom:30px;margin-bottom:1.875rem;font-size:20px;font-size:1.25rem}@media (max-width: 992px){.modulo6 .btn-round{background-color:#23D3DE;color:#5d41dd;margin-top:80px;margin-top:5rem}}.contacto{padding-top:90px;padding-top:5.625rem;padding-bottom:90px;padding-bottom:5.625rem;background-image:url(../images/contacto.jpg);min-height:100vh;background-size:cover;display:-webkit-box;display:-ms-flexbox;display:flex;-webkit-box-align:center;-ms-flex-align:center;align-items:center;position:relative}.contacto .bg-color{background-color:#5d41dd;position:absolute;left:0;top:0;bottom:0;width:67%;opacity:0.8}@media (max-width: 1199.98px){.contacto{background-image:url(../images/contacto-md.jpg)}.contacto .bg-color{display:none}}@media (max-width: 575.98px){.contacto{background-image:url(../images/contacto-m.jpg);background-size:contain;background-color:#5d41dd;background-repeat:no-repeat;background-position:top;padding-bottom:0}}@media (max-width: 991.98px){.contacto .contacto-form{padding-bottom:100px;padding-bottom:6.25rem;text-align:center}}.contacto .contacto-form h2+p{font-family:"Nunito",sans-serif;font-size:23px;font-size:1.4375rem;color:white;margin-top:10px;margin-top:.625rem;margin-bottom:40px;margin-bottom:2.5rem}.contacto .contacto-form form{margin-top:30px;margin-top:1.875rem}.contacto .contacto-form form .form-control{opacity:0.7;font-family:"Nunito",sans-serif;color:#5E626C;font-weight:700}@media (max-width: 991.98px){.contacto .contacto-form form .form-control{text-align:center}}.contacto .contacto-form form .form-control:focus,.contacto .contacto-form form .form-control:valid{opacity:1}.contacto .contacto-form form .form-control::-webkit-input-placeholder{font-family:"Nunito",sans-serif;color:#5E626C;font-weight:700}.contacto .contacto-form form .form-control:-ms-input-placeholder{font-family:"Nunito",sans-serif;color:#5E626C;font-weight:700}.contacto .contacto-form form .form-control::-ms-input-placeholder{font-family:"Nunito",sans-serif;color:#5E626C;font-weight:700}.contacto .contacto-form form .form-control::placeholder{font-family:"Nunito",sans-serif;color:#5E626C;font-weight:700}.contacto .contacto-form form input{height:50px}.contacto .contacto-form form textarea{height:120px}.contacto .contacto-form form .error{font-family:"Montserrat",sans-serif;font-size:12px;font-size:.75rem;font-weight:700;color:#ff8f8f;letter-spacing:1px}.contacto .contacto-form form .msjExito{margin-top:30px;margin-top:1.875rem;font-size:14px;font-size:.875rem;font-family:"Montserrat",sans-serif;font-weight:700;color:#23D3DE}.contacto .contacto-form .btn-round{text-transform:uppercase;font-size:16px;font-size:1rem;letter-spacing:1px;border:0;outline:3px solid #23D3DE;padding:10px 25px;padding:.625rem 1.5625rem;background-color:transparent}@media (max-width: 991.98px){.contacto .contacto-form .btn-round{padding:12px 28px;padding:.75rem 1.75rem;margin-top:40px;margin-top:2.5rem}}.contacto .contacto-address .logo{width:180px;margin-bottom:10px;margin-bottom:.625rem}@media (max-width: 991.98px){.contacto .contacto-address .logo{display:none}}.contacto .contacto-address h5{color:white;text-transform:uppercase;margin-top:40px;margin-top:2.5rem;margin-bottom:20px;margin-bottom:1.25rem}.contacto .contacto-address h5.combo{margin-bottom:20px;margin-bottom:1.25rem}.contacto .contacto-address p{color:white;font-family:"Nunito",sans-serif}.contacto .contacto-address a{color:white;font-family:"Nunito",sans-serif;display:block;margin-bottom:10px;margin-bottom:.625rem}.contacto .contacto-address .seguridad p{font-size:14px;font-size:.875rem;line-height:19px;line-height:1.1875rem}@media (max-width: 991.98px){.contacto .contacto-address .phone{margin-top:70px;margin-top:4.375rem}}footer{background-color:#1C1C1C;padding-top:70px;padding-top:4.375rem;padding-bottom:70px;padding-bottom:4.375rem}@media (max-width: 991.98px){footer{background-color:#5d41dd}}footer .title{text-transform:uppercase;font-size:16px;font-size:1rem;color:white;font-family:"Nunito",sans-serif;font-weight:700;margin-bottom:20px;margin-bottom:1.25rem}footer li{margin-bottom:15px;margin-bottom:.9375rem}footer a{font-size:16px;font-size:1rem;color:white;font-family:"Nunito",sans-serif;font-weight:300}footer a:hover{color:#23D3DE}footer .combo img{width:20px}.footer-copy{background-color:#414141;padding-top:15px;padding-top:.9375rem;padding-bottom:15px;padding-bottom:.9375rem}.footer-copy p{color:white;font-family:"Montserrat",sans-serif;font-size:12px;font-size:.75rem}
 /*# sourceMappingURL=main.min.css.map */

diff --git a/assets/sass/_common.scss b/assets/sass/_common.scss
@@ -97,7 +97,7 @@ b {
 
 .navbar {
     background-color: $nav;
-    border-bottom: 1px solid white;
+    border-bottom: 1px solid rgba($color: #ffffff, $alpha: 0.2);
     @include rem-fallback(padding-top, 30px/16px);
     @include rem-fallback(padding-bottom, 30px/16px);
     @include transitionMix(all, 0.2s, linear);
@@ -878,8 +878,21 @@ header {
     background-size: cover;
     display: flex;
     align-items: center;
+    position: relative;
+    .bg-color {
+        background-color: $primary;
+        position: absolute;
+        left: 0;
+        top: 0;
+        bottom: 0;
+        width: 67%;
+        opacity: 0.8;
+    }
     @media (max-width: 1199.98px) {
         background-image: url(../images/contacto-md.jpg);
+        .bg-color {
+            display: none;
+        }
     }
     @media (max-width: 575.98px) {
         background-image: url(../images/contacto-m.jpg);
@@ -959,6 +972,7 @@ header {
             @include rem-fallback(padding,
             10px/16px,
             25px/16px);
+            background-color: transparent;
             @media (max-width: 991.98px) {
                 @include rem-fallback(padding, 12px/16px, 28px/16px);
                 @include rem-fallback(margin-top,

diff --git a/index.html b/index.html
@@ -320,6 +320,7 @@
     </div>
 
     <section class="contacto" id="contacto">
+        <div class="bg-color"></div>
         <div class="container">
             <div class="row">
                 <div class="col-12 col-lg-4 contacto-form check" data-animation="animate__fadeIn">
